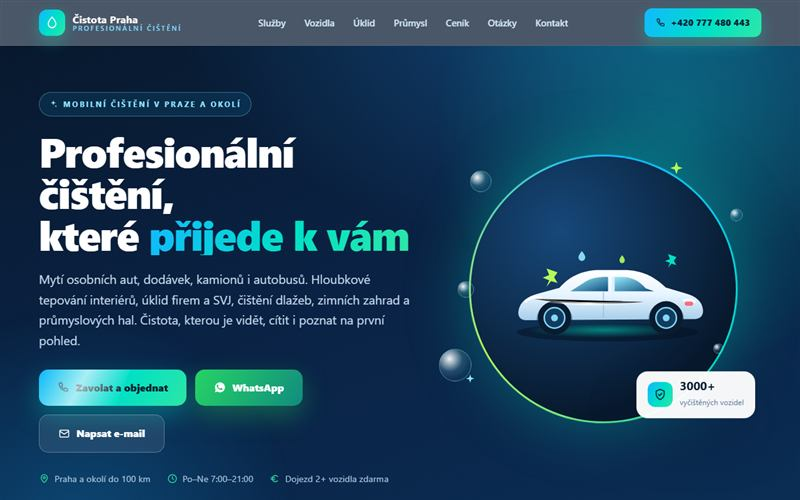
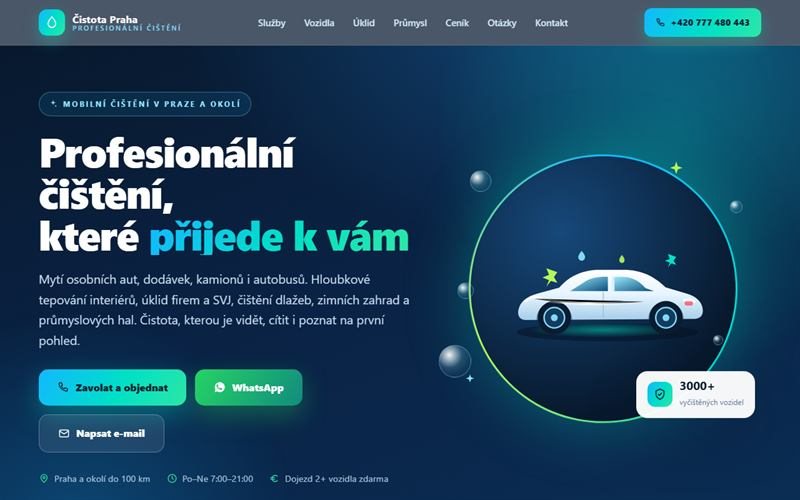
Ukazky: jen landingpage.cz (7 oboru x 2 designy), nove nahledy; staticweb.cz a mrtve /crm-* odkazy pryc; AGENTS.md: recept na aktualizaci ukazek

diff --git a/AGENTS.md b/AGENTS.md
@@ -26,7 +26,7 @@ src/
     packages.json        # Start/Business/Premium (hours, price, desc, cta, featured, badge)
     includes.json        # sdílený seznam "V každém balíčku"
     references.json      # reference (name, desc, url, image)
-    demos.json           # ukázky: skupiny (name, url, desc) + pages (title, url)
+    demos.json           # ukázky: skupiny (name, desc) + items (title, url, image)
     services.json        # služby (icon, title, text)
     redirects.json       # přesměrování ze starých URL (from, to, note)
     lokalita.json        # 12 měst u Slaného pro /webove-stranky/<slug>/
@@ -100,11 +100,15 @@ eleventy.config.js            # filtry, kolekce, transform relativeLinks (root-r
 
 ## Ukázky
 
-- Stránka `/ukazky/` (`src/ukazky.njk`) vypisuje demo stránky **podle témat** (Služby a řemesla, CRM a AI, Srovnání a průvodce, Oslavy a akce).
+- Stránka `/ukazky/` (`src/ukazky.njk`) vypisuje demo stránky **podle oboru** (Restaurace a jídlo, Zdraví a krása, Služby a řemesla, Oslavy a akce) — zdroj je nabídka `landingpage.cz`, obory mají po dvou designech (`-ds`/`-ms` = jiná firma i copy, ne dvě varianty téhož).
 - Data v `src/_data/demos.json`: pole témat (`name`, `desc`, `items[]` s `title`/`url`/`image`).
-- Náhledy v `src/assets/ukazky/*.jpg` (800×500) — screenshoty přes headless Chrome.
-- **Domény (landingpage.cz, staticweb.cz) se nepropagují** — žádné odkazy na jejich homepage, žádné názvy domén v textu. Odkazuje se jen na konkrétní ukázkové stránky (`target="_blank" rel="noopener"`).
+- Náhledy v `src/assets/ukazky/*.jpg` (800×500, `lp-<slug>.jpg`) — screenshoty přes headless Chrome.
+- **Doména (landingpage.cz) se nepropaguje** — žádné odkazy na její homepage, žádné názvy domén v textu. Odkazuje se jen na konkrétní ukázkové stránky (`target="_blank" rel="noopener"`). Odkazy na `staticweb.cz` ani na `/crm-*`, `/srovnani-*` (404) sem nepatří.
 - Karty používají `.showcase` / `.showcase-item` (stejné jako reference), na mobilu 1 sloupec.
+- **Aktualizace nabídky (recept)**: zdrojem pravdy je `https://www.landingpage.cz/sitemap.xml`, ne homepage — ta v „Související" vypisuje i stránky, které v nabídce nejsou. U každé URL ověřit 200; mrtvé slugy se objevují postupně (našel jsem `/crm-pro-servisni-firmy`, `/staticke-webove-stranky` a `/srovnani-crm-2026` — všechny 404, ale v datech ještě byly). `-ds`/`-ms` = **dva designy téhož oboru** (jiná firma i copy; `-ds` delší, 10–15 sekcí, `-ms` kratší, 7–13), ne dvě varianty jednoho webu.
+- **Náhledy** se generují z živých stránek na 1280×800 (poměr 16:10, stejný jako `aspect-ratio` karty) a zmenšují na 800×500 JPEG q78; jméno `lp-<slug>.jpg` podle URL. Při odebrání ukázky náhled z `src/assets/ukazky/` smazat a dát `npm run clean` — build `_site` nečistí (gotcha 13), takže by se staré JPEG nasazovaly dál.
+- Po každé aktualizaci zkontrolovat: karet = `items` v JSON, každý `image` existuje v `_site`, v `_site/**/*.html` není `staticweb.cz` ani odkaz na homepage, a **externí** odkazy vrací 200 (interní audit je nekontroluje).
+- Skupina s jedinou kartou nechává v třísloupcové mřížce prázdné místo vpravo — buď ji spojit s jinou, nebo to nechat (konzistentní).
 
 ## Gotchas (na co jsem narazil)
 
@@ -129,6 +133,7 @@ eleventy.config.js            # filtry, kolekce, transform relativeLinks (root-r
 18. **Paginované stránky nejsou v kolekcích**, dokud nemá paginace `addAllPagesToCollections: true`. Bez toho `collections.sitemapPages` vidí od každé šablony **jen první** vygenerovanou stránku (sitemap pak měla 10 URL místo 36). Platí pro `lokalita.njk` i `obor.njk`.
 19. **`{% set %}` platí pro celý zbytek šablony** — proměnné nastavené pro jeden `{% include %}` musí další include vždy přenastavit (i na `false`), jinak zdědí staré hodnoty. Týká se hlavně parametrů `link-*.njk`.
 20. **Interní odkazy v šablonách jsou root-relative** (`/kontakt/`) a teprve transform `relativeLinks` z nich při buildu udělá relativní (`../kontakt/`). Nikdy nepočítej hloubku ručně a nepiš `../` přímo do šablony — rozbilo by to build na kořeni domény. Nový atribut s cestou musíš přidat do regexu v transformu.
+21. **Ukládání JPEG přes .NET**: `$bmp.Save($path, $codec, (New-Object System.Drawing.Imaging.EncoderParameters(0)))` spadne na `Parameter is not valid` — bez parametrů použij `Save($path, [System.Drawing.Imaging.ImageFormat]::Jpeg)`, s kvalitou až `EncoderParameters(1)` (`EncoderParameter(Quality, 78)`). Stejně tak `New-Object System.Drawing.Rectangle(0,0,$w,$h)` s výrazem uvnitř rozbije parsování — hodnoty předpočítej do proměnných (viz i OG obrázky).
 
 ## Kontrola kvality (audit)
 
@@ -137,9 +142,8 @@ Opakovaně použitelný postup (skripty se píšou dočasně a mažou):
 1. **Kontrast** — Node skript: spočítat WCAG poměr pro všechny dvojice text/pozadí včetně alfakanálu (`over(fg, alpha, bg)`; práh 4,5:1 pro text, 3:1 pro velký text/grafiku).
 2. **Struktura/SEO/přístupnost** — Node skript nad `_site/**/*.html`: 1× `h1`, žádné skoky v nadpisech, žádná duplicitní `id`, každý odkaz/tlačítko má název, `img` má `alt`, `nav` má `aria-label`, `target="_blank"` má `rel="noopener"`, délka meta description.
 3. **Tenký obsah** — ve stejném skriptu spočítat slova v `<main>` (bez `svg`/`script`, tagy pryč) a hlídat **≥ 500 slov** u detailních stránek lokalit/oborů; zároveň zkontrolovat, že `title` a canonical sedí na URL.
-4. **Odkazy a JSON-LD** — projít všechny `href="/..."` a ověřit, že cíl existuje v `_site` (pozor: indexovat i ne-HTML soubory, jinak `css`/`assets` hlásí falešné chyby), a `JSON.parse` na každý `<script type="application/ld+json">`.
-3. **JSON-LD** — `JSON.parse` na obsah `<script type="application/ld+json">`.
-4. **Mobil** — viz iframe trik v gotcha 11, pak zkontrolovat header/hamburger, zalamování a přesahy.
+4. **Odkazy a JSON-LD** — projít všechny `href="/..."` a ověřit, že cíl existuje v `_site` (pozor: indexovat i ne-HTML soubory, jinak `css`/`assets` hlásí falešné chyby), a `JSON.parse` na každý `<script type="application/ld+json">` (externí odkazy tenhle audit nekontroluje — ty se ověřují zvlášť, vrací 200).
+5. **Mobil** — viz iframe trik v gotcha 11, pak zkontrolovat header/hamburger, zalamování a přesahy.
 
 ## Vizuální kontrola (headless Chrome)
 
